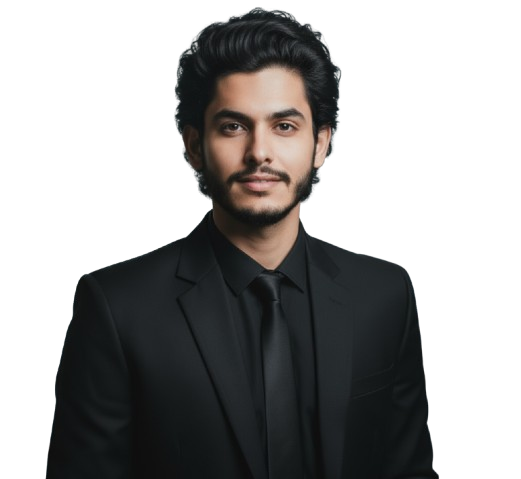
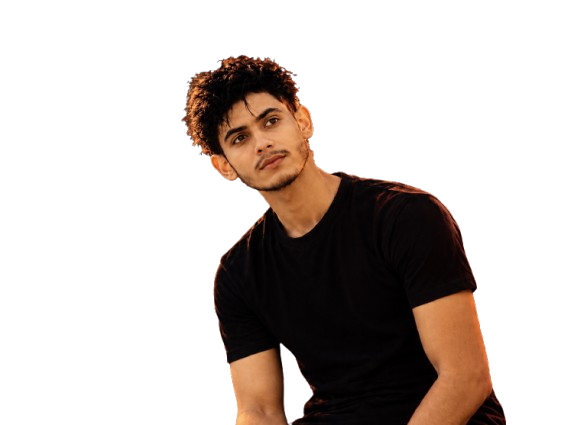
pic done

diff --git a/index.html b/index.html
@@ -140,98 +140,83 @@
     transform: translateY(-2px);
   }
 
-  /* HERO SECTION (EXACT MATCH TO USER REEL SCREENSHOTS 1, 2, 3, 4) */
+  /* HERO SECTION */
   #hero {
-    height: 100vh; min-height: 700px; max-height: 1000px;
+    height: 100vh; min-height: 520px; max-height: 1000px;
     width: 100vw;
     position: relative;
     overflow: hidden;
-    background: #070709;
+    background: radial-gradient(ellipse at 76% 42%, #481608 0%, #210b07 36%, #070709 72%);
     display: flex; align-items: center; justify-content: center;
   }
 
   /* AMBIENT SPOTLIGHT GLOW BEHIND PHOTO */
   .hero-spotlight {
-    position: absolute; top: 48%; left: 50%;
+    position: absolute; top: 48%; left: 76%;
     transform: translate(-50%, -50%);
-    width: 85vw; max-width: 1000px;
+    width: 48vw; max-width: 700px;
     height: 80vh; max-height: 750px;
     background: radial-gradient(circle at center,
-      rgba(225, 225, 240, 0.35) 0%,
-      rgba(150, 150, 175, 0.18) 35%,
-      rgba(35, 35, 45, 0.08) 65%,
+      rgba(255, 91, 33, 0.28) 0%,
+      rgba(150, 45, 19, 0.16) 35%,
+      rgba(35, 15, 12, 0.08) 65%,
       transparent 82%);
     filter: blur(65px);
     pointer-events: none;
     z-index: 1;
   }
 
-  /* CENTER PORTRAIT STAGE (Z-INDEX 2 - FIXED IN CENTER WITH 360 DEGREE ROTATION) */
+  /* FIXED PORTRAIT STAGE */
   .hero-photo-container {
-    position: absolute;
-    bottom: 0; left: 50%;
-    transform: translateX(-50%);
-    height: 86vh; max-height: 700px;
+    position: absolute; right: 5%; bottom: 0;
+    height: min(88vh, 760px); width: 48%;
     z-index: 2;
-    pointer-events: auto;
+    pointer-events: none;
     display: flex; align-items: flex-end; justify-content: center;
-    perspective: 1000px;
   }
   .hero-photo-wrap {
-    height: 100%; width: auto;
+    height: 100%; width: 100%;
     display: flex; align-items: flex-end; justify-content: center;
-    transform-style: preserve-3d;
-    transition: transform 0.12s ease-out;
-    cursor: grab;
   }
   .hero-photo {
-    height: 100%; width: auto;
-    max-width: none;
+    height: 100%; width: 100%;
+    max-width: 100%;
     object-fit: contain; object-position: bottom;
     filter: contrast(1.06) brightness(1.02);
     mask-image: linear-gradient(to bottom, black 82%, transparent 99%);
     -webkit-mask-image: linear-gradient(to bottom, black 82%, transparent 99%);
   }
 
-  /* HERO OVERLAY GRID (Z-INDEX 10 - TEXT OVERLAYS ON TOP OF PHOTO) */
+  /* HERO TEXT */
   .hero-overlay-grid {
     position: absolute; inset: 0;
     z-index: 10;
     pointer-events: none;
-    padding: 7rem 4rem 3rem;
-    display: flex; justify-content: space-between; align-items: center;
-    max-width: 1450px; margin: 0 auto; width: 100%;
+    padding: 7rem 5.5% 3rem;
+    display: flex; align-items: center;
+    width: 100%;
   }
 
   /* LEFT OVERLAY TEXT */
   .hero-left {
     pointer-events: auto;
-    display: flex; flex-direction: column; justify-content: space-between;
-    height: 75%;
-    max-width: 480px;
+    display: flex; flex-direction: column; justify-content: center;
+    max-width: 48%;
   }
   .hero-subtag {
-    font-family: var(--font-code);
-    font-size: 0.82rem; letter-spacing: 1.5px;
-    color: var(--muted); text-transform: uppercase;
-    font-weight: 600;
+    font-family: var(--font-sans);
+    font-size: clamp(0.95rem, 1.2vw, 1.15rem);
+    color: var(--white); font-weight: 400;
   }
   .hero-title-main {
     font-family: 'Syne', sans-serif;
-    font-size: clamp(3.2rem, 5vw, 6rem);
+    font-size: clamp(2.8rem, 5vw, 5rem);
     font-weight: 900;
-    line-height: 0.94;
-    letter-spacing: -2.5px;
+    line-height: 1.02;
     text-transform: uppercase;
-    color: var(--white);
-    opacity: 0.72;
-    margin: 1.5rem 0;
+    color: #ff5426;
+    margin: 0.35rem 0 0;
     text-shadow: 0 4px 30px rgba(0,0,0,0.5);
-  }
-  .hero-scroll-indicator {
-    font-family: var(--font-code); font-size: 0.75rem;
-    color: var(--muted); letter-spacing: 1.5px;
-    text-transform: uppercase; opacity: 0.8;
   }
 
   /* RIGHT OVERLAY TEXT & BUTTONS */
@@ -302,7 +287,7 @@
   }
   .about-spotlight-glow {
     position: absolute; inset: -40px;
-    background: radial-gradient(circle at center, rgba(255, 255, 255, 0.22) 0%, rgba(255, 255, 255, 0.04) 50%, transparent 75%);
+    background: radial-gradient(circle at center, rgba(255, 72, 35, 0.3) 0%, rgba(150, 34, 18, 0.14) 48%, transparent 75%);
     filter: blur(50px); border-radius: 40px; pointer-events: none;
   }
   .about-card-frame {
@@ -313,6 +298,7 @@
   }
   .about-card-img {
     width: 100%; height: 420px; object-fit: cover; object-position: top;
+    background: radial-gradient(ellipse at 50% 38%, rgba(255, 75, 38, 0.28) 0%, rgba(100, 26, 18, 0.16) 42%, #0d0e14 78%);
     border-radius: 22px; display: block; margin-bottom: 1rem;
   }
   .about-card-footer {
@@ -408,6 +394,7 @@
   .projects-grid .project-card:nth-child(1) { order: 12; }
   .projects-grid .project-card:nth-child(6) { order: 13; }
   .projects-grid .project-card:nth-child(7) { order: 14; }
+  .projects-grid .fan-hub-project { order: -1; }
 
   .project-card {
     display: grid; grid-template-columns: minmax(320px, 0.95fr) minmax(0, 1.05fr);
@@ -432,6 +419,15 @@
     object-fit: cover; opacity: 0.85; transition: transform 0.6s ease, opacity 0.4s ease;
   }
   .project-card:hover .project-image { transform: scale(1.06); opacity: 1; }
+  .project-image-placeholder {
+    position: absolute; inset: 1.5rem;
+    display: flex; align-items: center; justify-content: center;
+    border: 1px dashed rgba(255, 255, 255, 0.35);
+    background: radial-gradient(ellipse at center, rgba(255, 82, 38, 0.2), rgba(8, 8, 10, 0.35) 72%);
+    color: rgba(255, 255, 255, 0.7);
+    font-family: var(--font-code); font-size: 0.8rem; letter-spacing: 1px;
+    text-align: center;
+  }
   .project-badge {
     position: relative; z-index: 2;
     display: inline-flex; align-items: center; gap: 6px;
@@ -626,16 +622,24 @@
 
   /* RESPONSIVE */
   @media(max-width: 1024px) {
-    #hero { height: auto; min-height: 800px; padding: 8rem 2rem 4rem; }
-    .hero-overlay-grid { position: relative; inset: auto; flex-direction: column; text-align: center; gap: 2.5rem; }
-    .hero-left, .hero-right { align-items: center; text-align: center; max-width: 100%; }
-    .hero-action-btns { align-items: center; }
-    .hero-photo-container { position: relative; bottom: auto; left: auto; transform: none; height: 450px; margin: 2rem 0; }
+    #hero { min-height: 560px; }
+    .hero-overlay-grid { padding: 6rem 5% 2rem; }
+    .hero-left { max-width: 52%; }
+    .hero-title-main { font-size: clamp(1.8rem, 5vw, 3.2rem); }
+    .hero-photo-container { right: 0; width: 55%; height: min(82vh, 650px); }
     .about-grid { grid-template-columns: 1fr; gap: 3.5rem; }
     .about-stat-cards { grid-template-columns: 1fr; }
     nav ul { display: none; }
     .footer-metadata-row { grid-template-columns: 1fr; text-align: center; gap: 1.5rem; }
     .footer-bottom-row { flex-direction: column; gap: 1rem; text-align: center; }
+  }
+  @media(max-width: 600px) {
+    #hero { min-height: 520px; height: 88svh; }
+    .hero-overlay-grid { padding: 5.5rem 1.25rem 2rem; }
+    .hero-left { max-width: 66%; }
+    .hero-title-main { font-size: clamp(1.1rem, 4.2vw, 1.55rem); }
+    .hero-photo-container { right: -8%; width: 56%; height: 76%; }
+    .hero-spotlight { left: 72%; width: 70vw; height: 65vh; }
   }
 </style>
 </head>
@@ -664,31 +668,24 @@
   </div>
 </nav>
 
-<!-- HERO SECTION (EXACT MATCH TO REEL SCREENSHOTS WITH 360° SPIN & TEXT OVERLAY) -->
+<!-- HERO SECTION -->
 <section id="hero">
-  <!-- WIDE SPOTLIGHT GLOW IN CENTER -->
+  <!-- WARM LIGHT BEHIND PORTRAIT -->
   <div class="hero-spotlight"></div>
 
-  <!-- CENTER PORTRAIT STAGE (ABSOLUTE CENTER, Z-INDEX 2) -->
+  <!-- FIXED PORTRAIT ON THE RIGHT -->
   <div class="hero-photo-container">
-    <div class="hero-photo-wrap" id="heroPhotoWrap">
+    <div class="hero-photo-wrap">
       <img src="assets/images/my_pic_nobg.png" alt="Aaliyan Amir" class="hero-photo" onerror="this.src='assets/images/my_pic.png'">
     </div>
   </div>
 
-  <!-- OVERLAY TEXT GRID (ON TOP OF PHOTO, Z-INDEX 10) -->
+  <!-- TEXT STAYS CLEAR OF THE PORTRAIT -->
   <div class="hero-overlay-grid">
-    
-    <!-- LEFT SIDE OVERLAY -->
     <div class="hero-left">
       <div class="hero-subtag">HI, I'M AALIYAN AMIR</div>
-      <h1 class="hero-title-main">
-        CREATIVE<br>
-        DEVELOPER
-      </h1>
-      <div class="hero-scroll-indicator">
-        ↓ SCROLL TO EXPLORE
-      </div>
+      <div class="hero-subtag">WELCOME TO MY</div>
+      <h1 class="hero-title-main">PORTFOLIO</h1>
     </div>
 
   </div>
@@ -1311,6 +1308,29 @@
         </div>
       </div>
 
+      <div class="project-card reveal fan-hub-project">
+        <div class="project-media">
+          <div class="project-image-placeholder"><img class="project-image" src="assets/images/fanhub.png" alt=""></div>
+          <span class="project-badge">MERN Stack</span>
+        </div>
+        <div class="project-content">
+          <div class="project-title">Fan Hub Plus</div>
+          <div class="project-desc">
+            A full-stack movie and fandom discovery platform featuring trending titles, movies and TV shows, curated fandoms, and detailed content pages powered by TMDB.
+          </div>
+          <div class="project-tech">
+            <span class="tech-tag">MongoDB</span>
+            <span class="tech-tag">Express.js</span>
+            <span class="tech-tag">React</span>
+            <span class="tech-tag">Node.js</span>
+            <span class="tech-tag">TMDB API</span>
+          </div>
+          <div class="project-links">
+            <a href="https://fan-hub-plus.vercel.app/" class="project-link live" target="_blank" rel="noopener noreferrer">View Live</a>
+          </div>
+        </div>
+      </div>
+
     </div>
   </div>
 </section>
@@ -1540,26 +1560,6 @@
     requestAnimationFrame(animateRing);
   }
   animateRing();
-
-  // SMOOTH 360-DEGREE HORIZONTAL SPIN ON MOUSE MAPPING & DRAG
-  const heroPhotoWrap = document.getElementById('heroPhotoWrap');
-  let currentRotY = 0;
-  let targetRotY = 0;
-
-  document.addEventListener('mousemove', e => {
-    // Map mouse X across the entire screen window to a full 360-degree rotation angle
-    const normX = (e.clientX / window.innerWidth) - 0.5; // -0.5 to 0.5
-    targetRotY = normX * 360; // Smooth 360° spin!
-  });
-
-  function animateHeroSpin() {
-    currentRotY += (targetRotY - currentRotY) * 0.08;
-    if (heroPhotoWrap) {
-      heroPhotoWrap.style.transform = `rotateY(${currentRotY}deg)`;
-    }
-    requestAnimationFrame(animateHeroSpin);
-  }
-  animateHeroSpin();
 
   // SCROLL PROGRESS INDICATOR
   window.addEventListener('scroll', () => {
